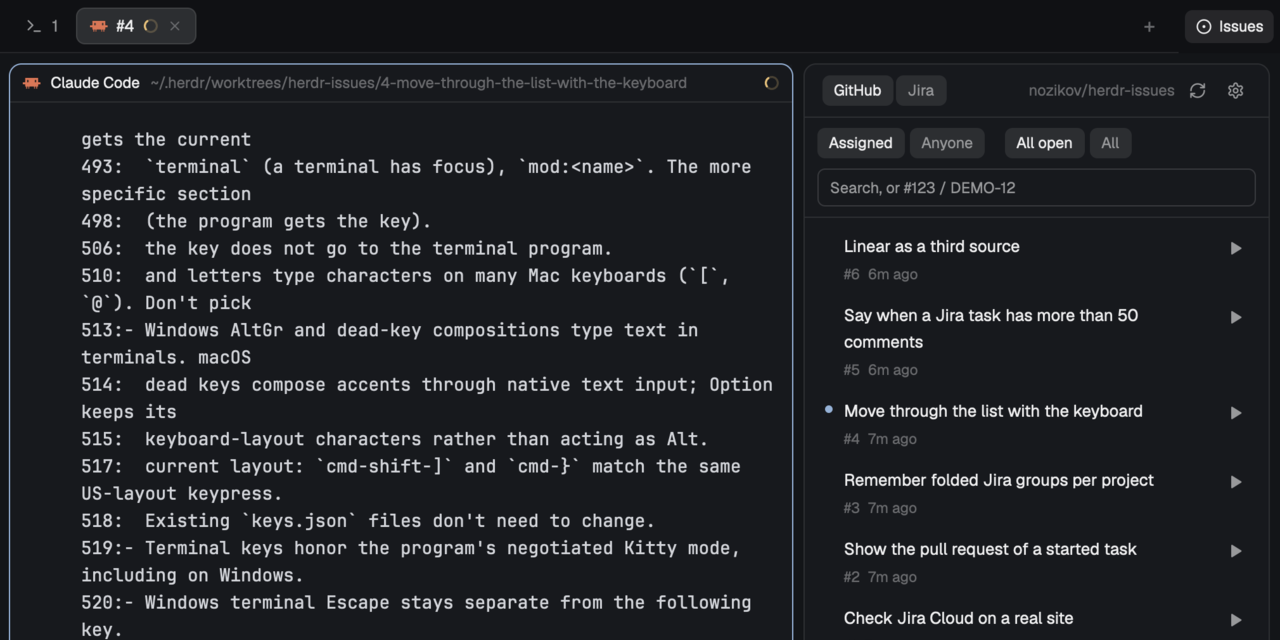
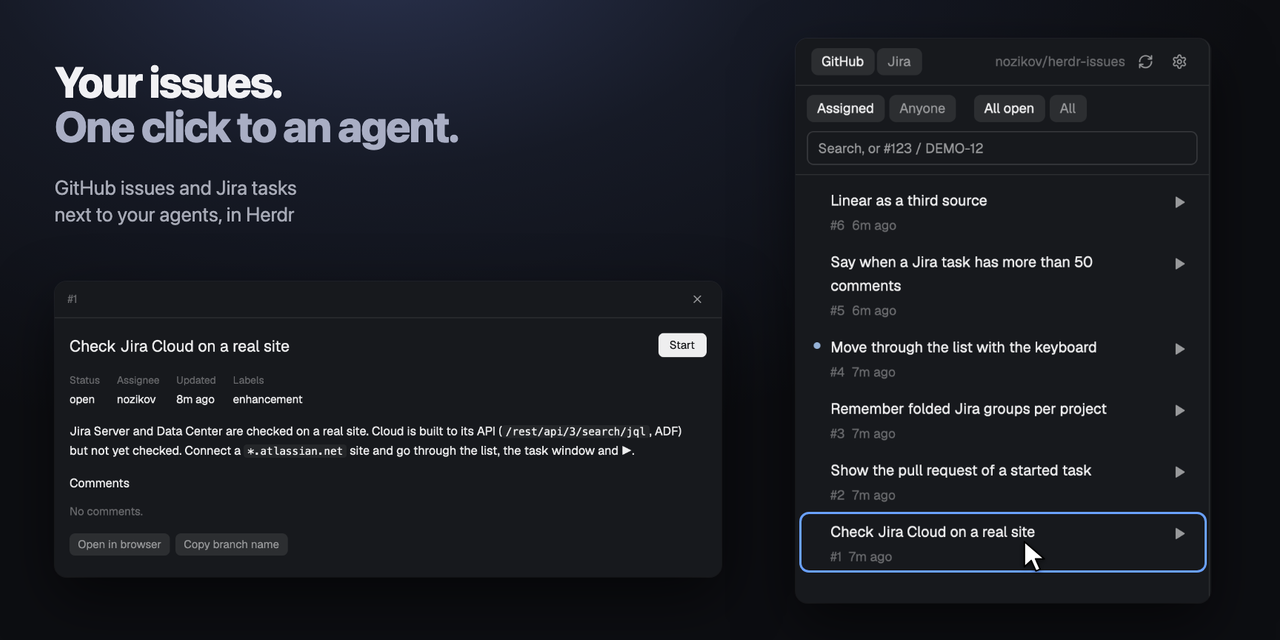
docs: poster hero with the panel and the task window
Claude-Session: https://claude.ai/code/session_01RxGX2ewvtUZhS3FADge9mN

diff --git a/README.md b/README.md
@@ -1,5 +1,5 @@
 <p align="center">
-  <img src="assets/hero.png" width="100%" alt="Herdr with the Issues panel open: the repo's open GitHub issues, each with a start button, and beside them an agent already working on issue #4 in its own folder">
+  <img src="assets/hero.png" width="100%" alt="Your issues. One click to an agent. The Issues panel with the repo's open GitHub issues, each with a start button, and the task window of the clicked issue with its description and a Start button">
 </p>
 
 <h1 align="center">Issues for Herdr</h1>
@@ -53,9 +53,8 @@ Press ▶ on a row, or Start in the task window:
 2. Your setup command runs in the new folder, if you set one, like `npm ci`.
 3. Your agent starts in a new tab of the same space, with the task as its first message.
 
-The picture at the top is that moment: the agent works on #4 in its own folder, and the
-row has a dot. Your current work stays as it is. ▶ on a task that already has a tab goes
-to that tab.
+The row gets a dot. Your current work stays as it is. ▶ on a task that already has a tab
+goes to that tab.
 **Remove folder** in the task window cleans up when you're done. It refuses while
 something is running there or while there are uncommitted changes, and it keeps the
 branch, so ▶ brings the work back.
